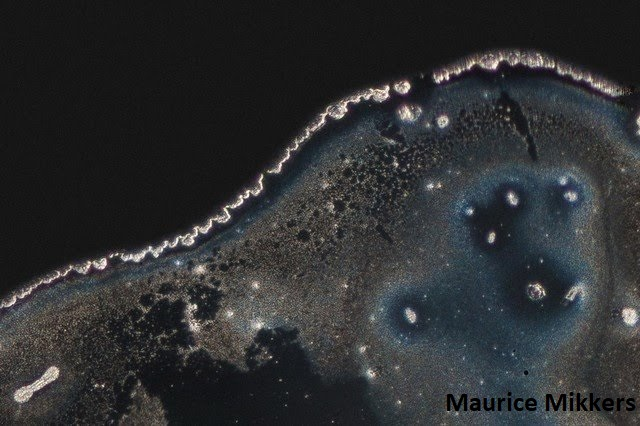
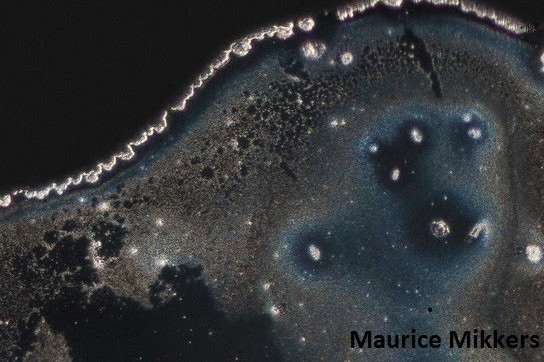
changes to record form and footer

diff --git a/resources/views/record.blade.php b/resources/views/record.blade.php
@@ -26,17 +26,50 @@ input[type=text] {
     <p class=""><b> Ref no.</b> <input type="text"> <b>Company Name</b> <input type="text"></p>    
     </div>
      <div class="col-5 text-center">
-         <img src="images/logofinal.png" height="60px;" width="250px" style="margin:10px;">
+         <img src="images/logofinal2.png" height="60px;" width="250px" style="margin:10px;">
     </div>
    </div>
    <div class="row" style="border: 2px solid grey; padding-top:1px;">
-   <div class="col-8">
+   <div class="col-5">
        <h5><b>1. Sample Donor Details</b></h5>
     <p><b> Name:</b><input type="text"><input type="text"> <br><br>
       <b>Job Title:</b> <input type="text"></p>    
-    <p><b>DOB:</b> <input type="text"> <b>Gender:</b> <input type="checkbox"> Male  <input type="checkbox"> Female    </p> <b>Safety Critical (e.g. Construction):</b> <input type="checkbox"> Yes <input type="checkbox"> No
+    <p><b>DOB:</b> <input type="text"> <br>
+      <p><b >Gender:</b> <input type="checkbox"> Male  <input type="checkbox"> Female    </p></p> 
    </div>
-     <div class="col-4">
+   <div class="col-4">
+      <h5><b>1B. Sample Donor Medication</b></h5>
+         <table class="table table-bordered ">
+            <thead>
+               <th>Medication</th>
+               <th>Dosage</th>
+            </thead>
+            <tbody>
+               <tr>
+                     <td></td>
+                     <td></td>
+               </tr>
+               <tr>
+                     <td></td>
+                     <td></td>
+               </tr>
+               <tr>
+                     <td></td>
+                     <td></td>
+               </tr>
+               <tr>
+                     <td></td>
+                     <td></td>
+               </tr>
+               <tr>
+                     <td></td>
+                     <td></td>
+               </tr>
+            </tbody>
+         </table>
+         <p style="font-size:small;">Please cont. on reverse side if needed</p>
+  </div>
+     <div class="col-3">
         <h5><b>2. Reason for Testing</b></h5>
         <p>Random  <input type="checkbox"><br> 
            Periodic <input type="checkbox"><br>
@@ -81,20 +114,21 @@ input[type=text] {
       <h5><b>Sample Donor</b></h5>
    </row>
    <row class="col-12">
-      <p style="font-size:12;">I certify that I am willing to provide the samples required in order to complete this drug and alcohol test. I confirm that the information provided on this form is correct. I have declared any medication taken in the last 14 days. I CONSENT to my samples being analysed for the presence of drugs and/or alcohol and I understand that this may include further laboratory based analysis in order to confirm the result of any initial analysis undertaken. I give permission for the results of the tests, subsequent tests and reports (if applicable) to be given to or discussed with my employer, the person/organisation paying for this test or other person/organisation that is relevant to its purpose. I understand that this includes any results relating to medication (whether declared or undeclared at the time of this sample collection). I hold the individuals and testing companies involved within the testing procedure blameless against any loss or damage, direct or indirect, for either the results obtained or for any action arising or taken by any person in receipt of this information. I have read and accepted the information above and the 12 point Declaration form shown to me prior to samples being taken.</p>
+      <p style="font-size:12;">I hereby consent to a urine and breath test to detect or monitor the presence of drugs and their metabolites and the presence of alcohol in samples of my breath. I accept that the test does not constitute a violation of my human rights. In the event of a non-negative result (drugs) and or positive result (alcohol), I understand the policy of <input type="text"><input type="text">. I accept the interpretation of of my test results by the assessor. I give consent for the employer/ agency/ person paying for the tests to have access to the results and accept that records of the results will be kept. I understand this includes any result relating to medication, whether declared or undeclared at the time of sample collection. I understand that a chain of custody maybe performed in light of a non-negative drugs screen and give consent for my sample to be laboratory tested to confirm the results of any initial analysis undertaken. I hold the individuals and testing companies involved within this procedure blameless against any loss or damage, direct or indirect, for either the results obtained or for any action arising or taken by any person in receipt of this information. </p>
    </row>
    <p style="margin-left:10px; "><b> Donor Signature</b> <input type="text"><input type="text"> <b>Date:</b> <input type="text"></p>  
 </div>
 <div class="row" style="border: 2px solid grey; padding-top:1px; padding-left:10px;">
    <div class="row">
       <div class="col-2"><h5><b>6. Alcohol Testing:</b></h5></div>
-      <div class="col-8"><b>Please confirm that the sample donor has not eaten, drank (except water), smoked, chewed gum or used mouthwash in the last 15 minutes.</b></div>
+      <div class="col-8"><b>Please confirm that the sample donor has not eaten, drank (except water), smoked, chewed gum or used mouthwash in the last 15 minutes.</b> </div>
       <div class="col-2">
             <i class="far fa-square" style="font-size:40px"> </i>  Please initial
       
          </div>
    </div>
-   <div class="row"style="margin-top:1px;">
+   <br>
+   {{-- <div class="row"style="margin-top:1px;">
    
       <div class="col" >
             <h5><b>Saliva Results:</b></h5>
@@ -112,7 +146,7 @@ input[type=text] {
          <row class="col-2">
                <input type="checkbox" style="margin:1px;"> 300mg/100ml
         </row>
-   </div>
+   </div> --}}
    <div class="row"style="margin-top:1px;">
    
    <div class="col" >
@@ -120,30 +154,39 @@ input[type=text] {
          <p style="font-size:x-small">Result of screen shown approx BREATH ALCOHOL CONCENTRATION μg/100ml The <u>UK</u> driving limit is 80mg/100ml.  </p>
    </div>
    
-      <row class="col-3">
+      <row class="col-2">
          <p><b>Reading 1:</b> ............ μg/100ml</p>
       </row>
-      <row class="col-3">
+      <row class="col-2">
          <p><b> Reading 2:</b> ............ μg/100ml</p>
       </row>
-      <row class="col-3">
+      <row class="col-2">
          <p><b> Reading 3:</b> ............ μg/100ml</p>
+      </row>
+      <row class="col-2">
+         <p><b> Reading 4:</b> ............ μg/100ml</p>
       </row>
          <div class="row">
             <div class="col-9">
                <ul>
                   <li>1. Result of > 0μg/100ml a second reading is required 15 minute wait before taking the second reading</li>
-                  <li>2. Third reading required if second reading is higher than the first. Wait 15 minutes before taking third reading</li>
+                  <li>2. Further reading required if second reading is higher than the first. Wait 15 minutes before taking further reading</li>
                   <li>3. Last reading will be used to report results in all cases</li>
                   <li>I confirm the above results recorded are accurate and true</li>
                </ul>
             </div>
             <div class="col-3">
-               <P class="text-center" style="border:2px solid grey;"><b>CLIENT CUT-OFF LEVEL</b><br>
-               ............ μg/100ml</P>
+               <p class="text-center "><b>CLIENT CUT-OFF LEVEL</b><br>
+               ............ μg/100ml <br><br>
+               <p style="font-size:x-small" class="text-center">
+                     Breathalyzer Calibration Date:<input type="text"> <br></p>   
+
+               </p>
+               </p>
+               
             </div>
          </div>
-         <p style="margin-left:15px;"><b> Donor Signature</b> <input type="text"><input type="text"> <b>Date:</b> <input type="text"></p>   
+         <p style="margin-left:15px;"><b> Donor Signature</b> <input type="text"><input type="text"> <b>Date:</b> <input type="text"> 
 </div>         
    
 
@@ -156,8 +199,17 @@ input[type=text] {
    <div class="row">
       <div class="col-12">
             <div class="container">  
-               <p style="font-size:small;">Sample temperature range (32-38 deg) <input type="checkbox"> YES  <input type="checkbox"> NO, sample invalid see SOP instructions</p>
-
+               <div class="row">
+                  <div class="col-4">
+                        <p style="font-size:small;">Sample temperature range (32-38 deg) <input type="checkbox"> YES  
+                  </div>
+                  <div class="col-8" style="font-size:x-small" >
+                        Drug kit Lot no. <input type="text"> Drug kit Expiry Date: <input type="text"></p>
+                  </div>
+               </div>
+                      
+               <p style="font-size:small;">Valid results require the presence of all control lines, where magenta test lines do not form, the sample donor is considered non-negative for that particular drug. A formed line is a negative regardless of how feint the line is.
+               </p>
                   <table class="table table-bordered table-sm">
                     <thead>
                       <tr>
@@ -171,18 +223,10 @@ input[type=text] {
                     </thead>
                     <tbody>
                       <tr>
-                        <td>Amphetamines (AMP)</td>
+                        <td>Methamphetamine (MET)</td>
                         <td><input type="checkbox"></td>
                         <td><input type="checkbox"></td>
-                        <td style="width:250px;"></td>
-                        <td><input type="checkbox"></td>
-                        <td><input type="checkbox"></td>
-                      </tr>
-                      <tr>
-                        <td>Benzodiazapines (BZO)</td>
-                        <td><input type="checkbox"></td>
-                        <td><input type="checkbox"></td>
-                        <td style="width:250px;"></td>
+                        <td >Ecstasy (MDMA)</td>
                         <td><input type="checkbox"></td>
                         <td><input type="checkbox"></td>
                       </tr>
@@ -190,28 +234,36 @@ input[type=text] {
                         <td>Cocaine (COC)</td>
                         <td><input type="checkbox"></td>
                         <td><input type="checkbox"></td>
+                        <td >Methadone (MTD) </td>
+                        <td><input type="checkbox"></td>
+                        <td><input type="checkbox"></td>
+                      </tr>
+                      <tr>
+                        <td>Cannabis (THC) </td>
+                        <td><input type="checkbox"></td>
+                        <td><input type="checkbox"></td>
+                        <td >Tramadol (TML)</td>
+                        <td><input type="checkbox"></td>
+                        <td><input type="checkbox"></td>
+                      </tr>
+                      <tr>
+                        <td>Amphetamines (AMP) </td>
+                        <td><input type="checkbox"></td>
+                        <td><input type="checkbox"></td>
+                        <td >Ketamine (KET)</td>
+                        <td><input type="checkbox"></td>
+                        <td><input type="checkbox"></td>
+                      </tr>
+                      <tr>
+                        <td>Morphine (MOP)</td>
+                        <td><input type="checkbox"></td>
+                        <td><input type="checkbox"></td>
                         <td style="width:250px;"></td>
                         <td><input type="checkbox"></td>
                         <td><input type="checkbox"></td>
                       </tr>
                       <tr>
-                        <td>Cannabis (THC)</td>
-                        <td><input type="checkbox"></td>
-                        <td><input type="checkbox"></td>
-                        <td style="width:250px;"></td>
-                        <td><input type="checkbox"></td>
-                        <td><input type="checkbox"></td>
-                      </tr>
-                      <tr>
-                        <td>Methamphetamine's (MET)</td>
-                        <td><input type="checkbox"></td>
-                        <td><input type="checkbox"></td>
-                        <td style="width:250px;"></td>
-                        <td><input type="checkbox"></td>
-                        <td><input type="checkbox"></td>
-                      </tr>
-                      <tr>
-                        <td>Opiates (OPI)</td>
+                        <td>Benzodiazepines (BZO) </td>
                         <td><input type="checkbox"></td>
                         <td><input type="checkbox"></td>
                         <td style="width:250px;"></td>
@@ -222,29 +274,18 @@ input[type=text] {
                   </table>
                 </div>    
       </div>
-     
-           
       </div>
       </div>
       <div class="row" style="border: 2px solid grey; padding-top:10px; padding-left:10px;">
-        <h5 style="padding-left:10px; padding-right:70px;"><b>8. Testings Incomplete</b></h5>     
-         <p>No result for Alcohol testing <input type="checkbox" name="" id=""> Drug testing <input type="checkbox" ></p> 
-         <div class="row">
-            <div class="col-9">
-                  <p>Specify a reason e.g. the donor was unwilling to provide sample/consent: </p>
-            </div>
-            <div class="col-3">
-                  <input type="text">
-            </div>
-         </div>
-      </div>  
-      <div class="row" style="border: 2px solid grey; padding-top:10px; padding-left:10px;">
-         <h5 style="padding-left:10px; padding-right:70px;"><b>9. Action Taken by Sample Collector</b></h5>   
+         <h5 style="padding-left:10px; padding-right:70px;"><b>8. Action Taken by Sample Collector</b></h5>   
 
-         <p style="margin-right:10px;">No action required, all tests negative  </p>  <input type="checkbox">
-         <p style="margin-right:10px; margin-left:10px;">Notify the requester of any non-negative results  </p> <input type="checkbox">
+         <p style="margin-right:10px;">No action required, all tests negative  </p>  <input type="checkbox"> 
+         <br><br>
+         <p style="margin-right:10px; margin-left:20px;">Notify the requester of any non-negative <input type="checkbox" style="margin:1px;"> Alcohol   <input type="checkbox" style="margin:1px;"> Drugs</p>
          <p style="margin-right:10px; margin-left:10px;">Laboratory tests ordered and urine samples declared and sealed for dispatch</p>   <input type="checkbox">      
-         <p style="margin-right:10px; margin-left:20px;">Testers signature </p> <input type="text" style="margin-bottom:2px;">
+         <p style="margin-right:10px; margin-left:20px;">Additional Information</p> <input type="text" style="margin-bottom:10px;"><input type="text" style="margin-bottom:10px;"> <br>
+         <p style="margin-right:10px; margin-left:20px;">Testers signature </p> <input type="text" style="margin-bottom:10px;">
+         <br>
          </div>
      
       </div>    

diff --git a/resources/views/content/footer.blade.php b/resources/views/content/footer.blade.php
@@ -2,14 +2,16 @@
     <div class="container">
         <div class="row">
         <div class="col l12 s12">
-            <div class="container">
-                © 2019 Copyright Workplace Drug & Alcohol Testing  
-                <br>
-                Company No. 11837128
-                <br>
-                Website Designed and Created by <a href="https://emilywallace-price.co.uk">Emily Wallace - Price </a> 
+            <div class="container " style="float:left;">
+               <p >© 2019 Copyright Workplace Drug & Alcohol Testing  </p> 
+               <p >Company No. 11837128</p> 
+                <p >
+                        Website Designed and Created by <a href="https://emilywallace-price.co.uk"><b> Emily Wallace - Price</b> </a> <br>
+                        <b>Images produced by Maurice Mikkers, Bevshots, Sarah Schoenfeld & Zosimus </b>
+                </p>
             </div>
             <br>
         </div>
     </div>
+   
 </footer>

diff --git a/resources/views/content/contact.blade.php b/resources/views/content/contact.blade.php
@@ -8,10 +8,10 @@
                 <br>
                 <br>
                     <i class="material-icons">phone</i>  
-                          <a href="tel:02380 897025"> 07745 147376</a>  
+                          <a href="tel:02380 897025"><b style="font-size:25px;">     07745 147376</b> </a>  
                      <br><br>
                      <i class="material-icons">email</i> 
-                    <a href="mailto:workplacedat@gmail.com">workplacedat@gmail.com</a>  <br>
+                    <a href="mailto:workplacedat@gmail.com"><b style="font-size:25px;">    workplacedat@gmail.com</b> </a>  <br>
                      <br>
             </div>
           </div>

diff --git a/resources/views/welcome.blade.php b/resources/views/welcome.blade.php
@@ -27,7 +27,8 @@
       background: transparent;
     }
     .page-footer{
-        background-color: black;
+        background-image: url('images/IMG_39861.jpg');
+        background-size: cover;
     }
     .footer-copyright{
         background-image: url('images/wine.jpg');
